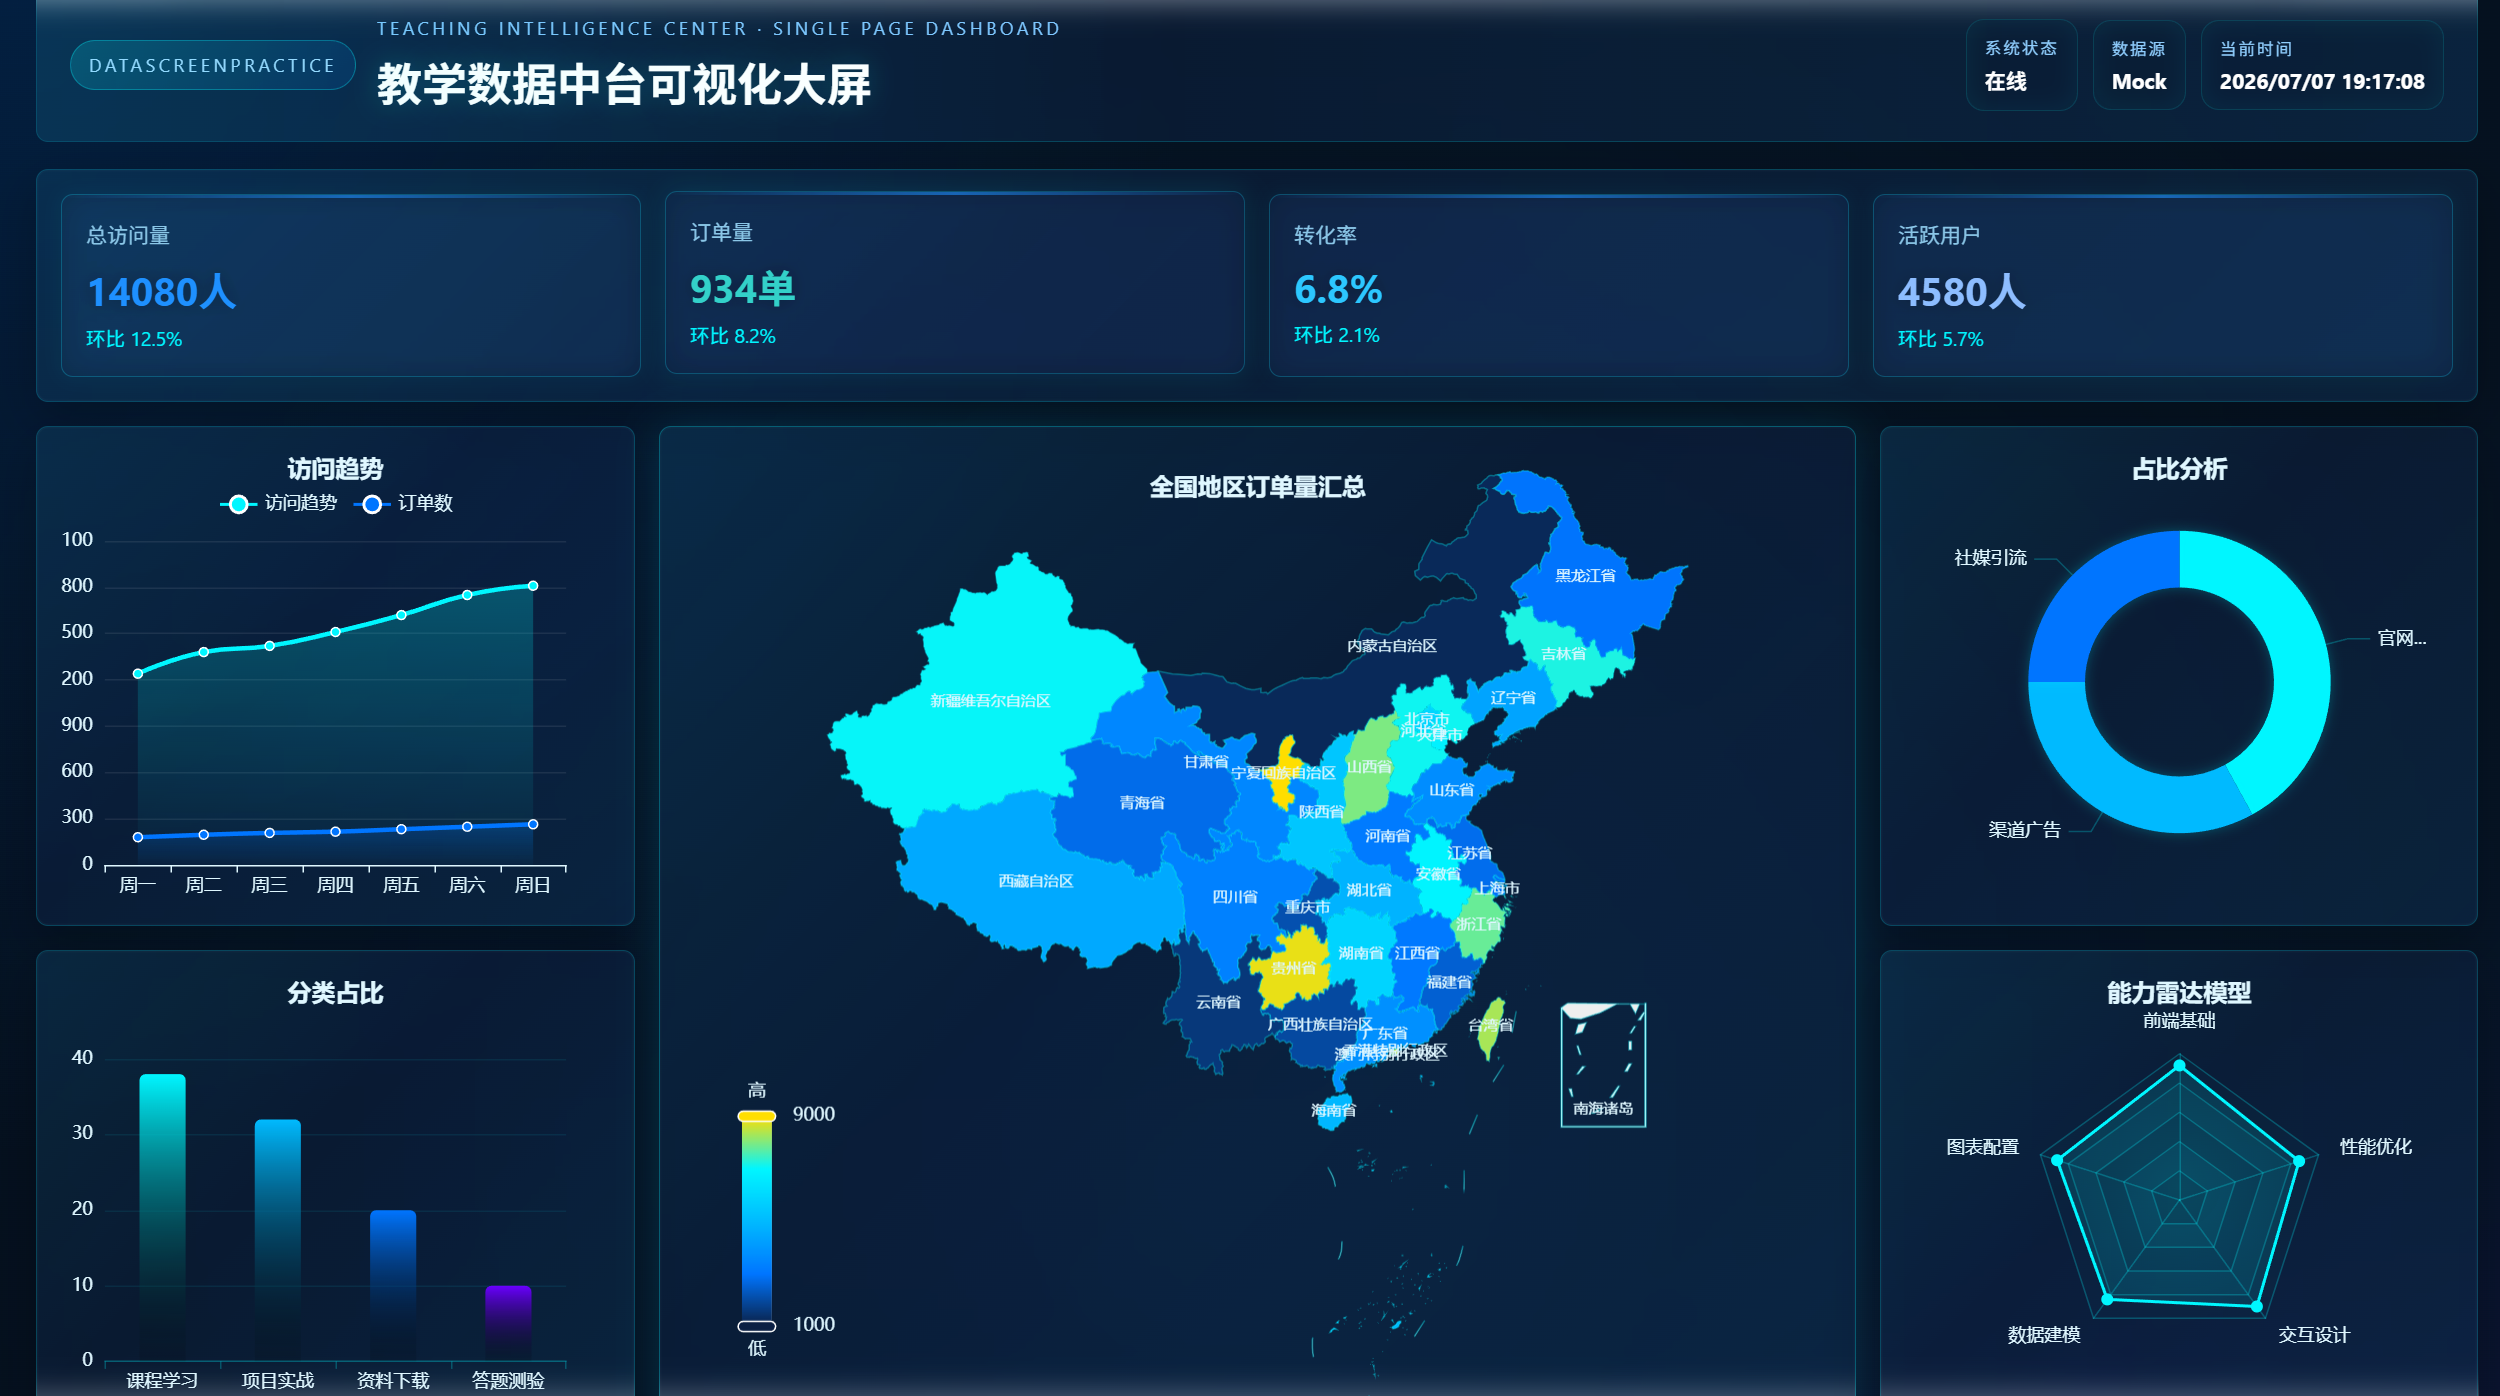
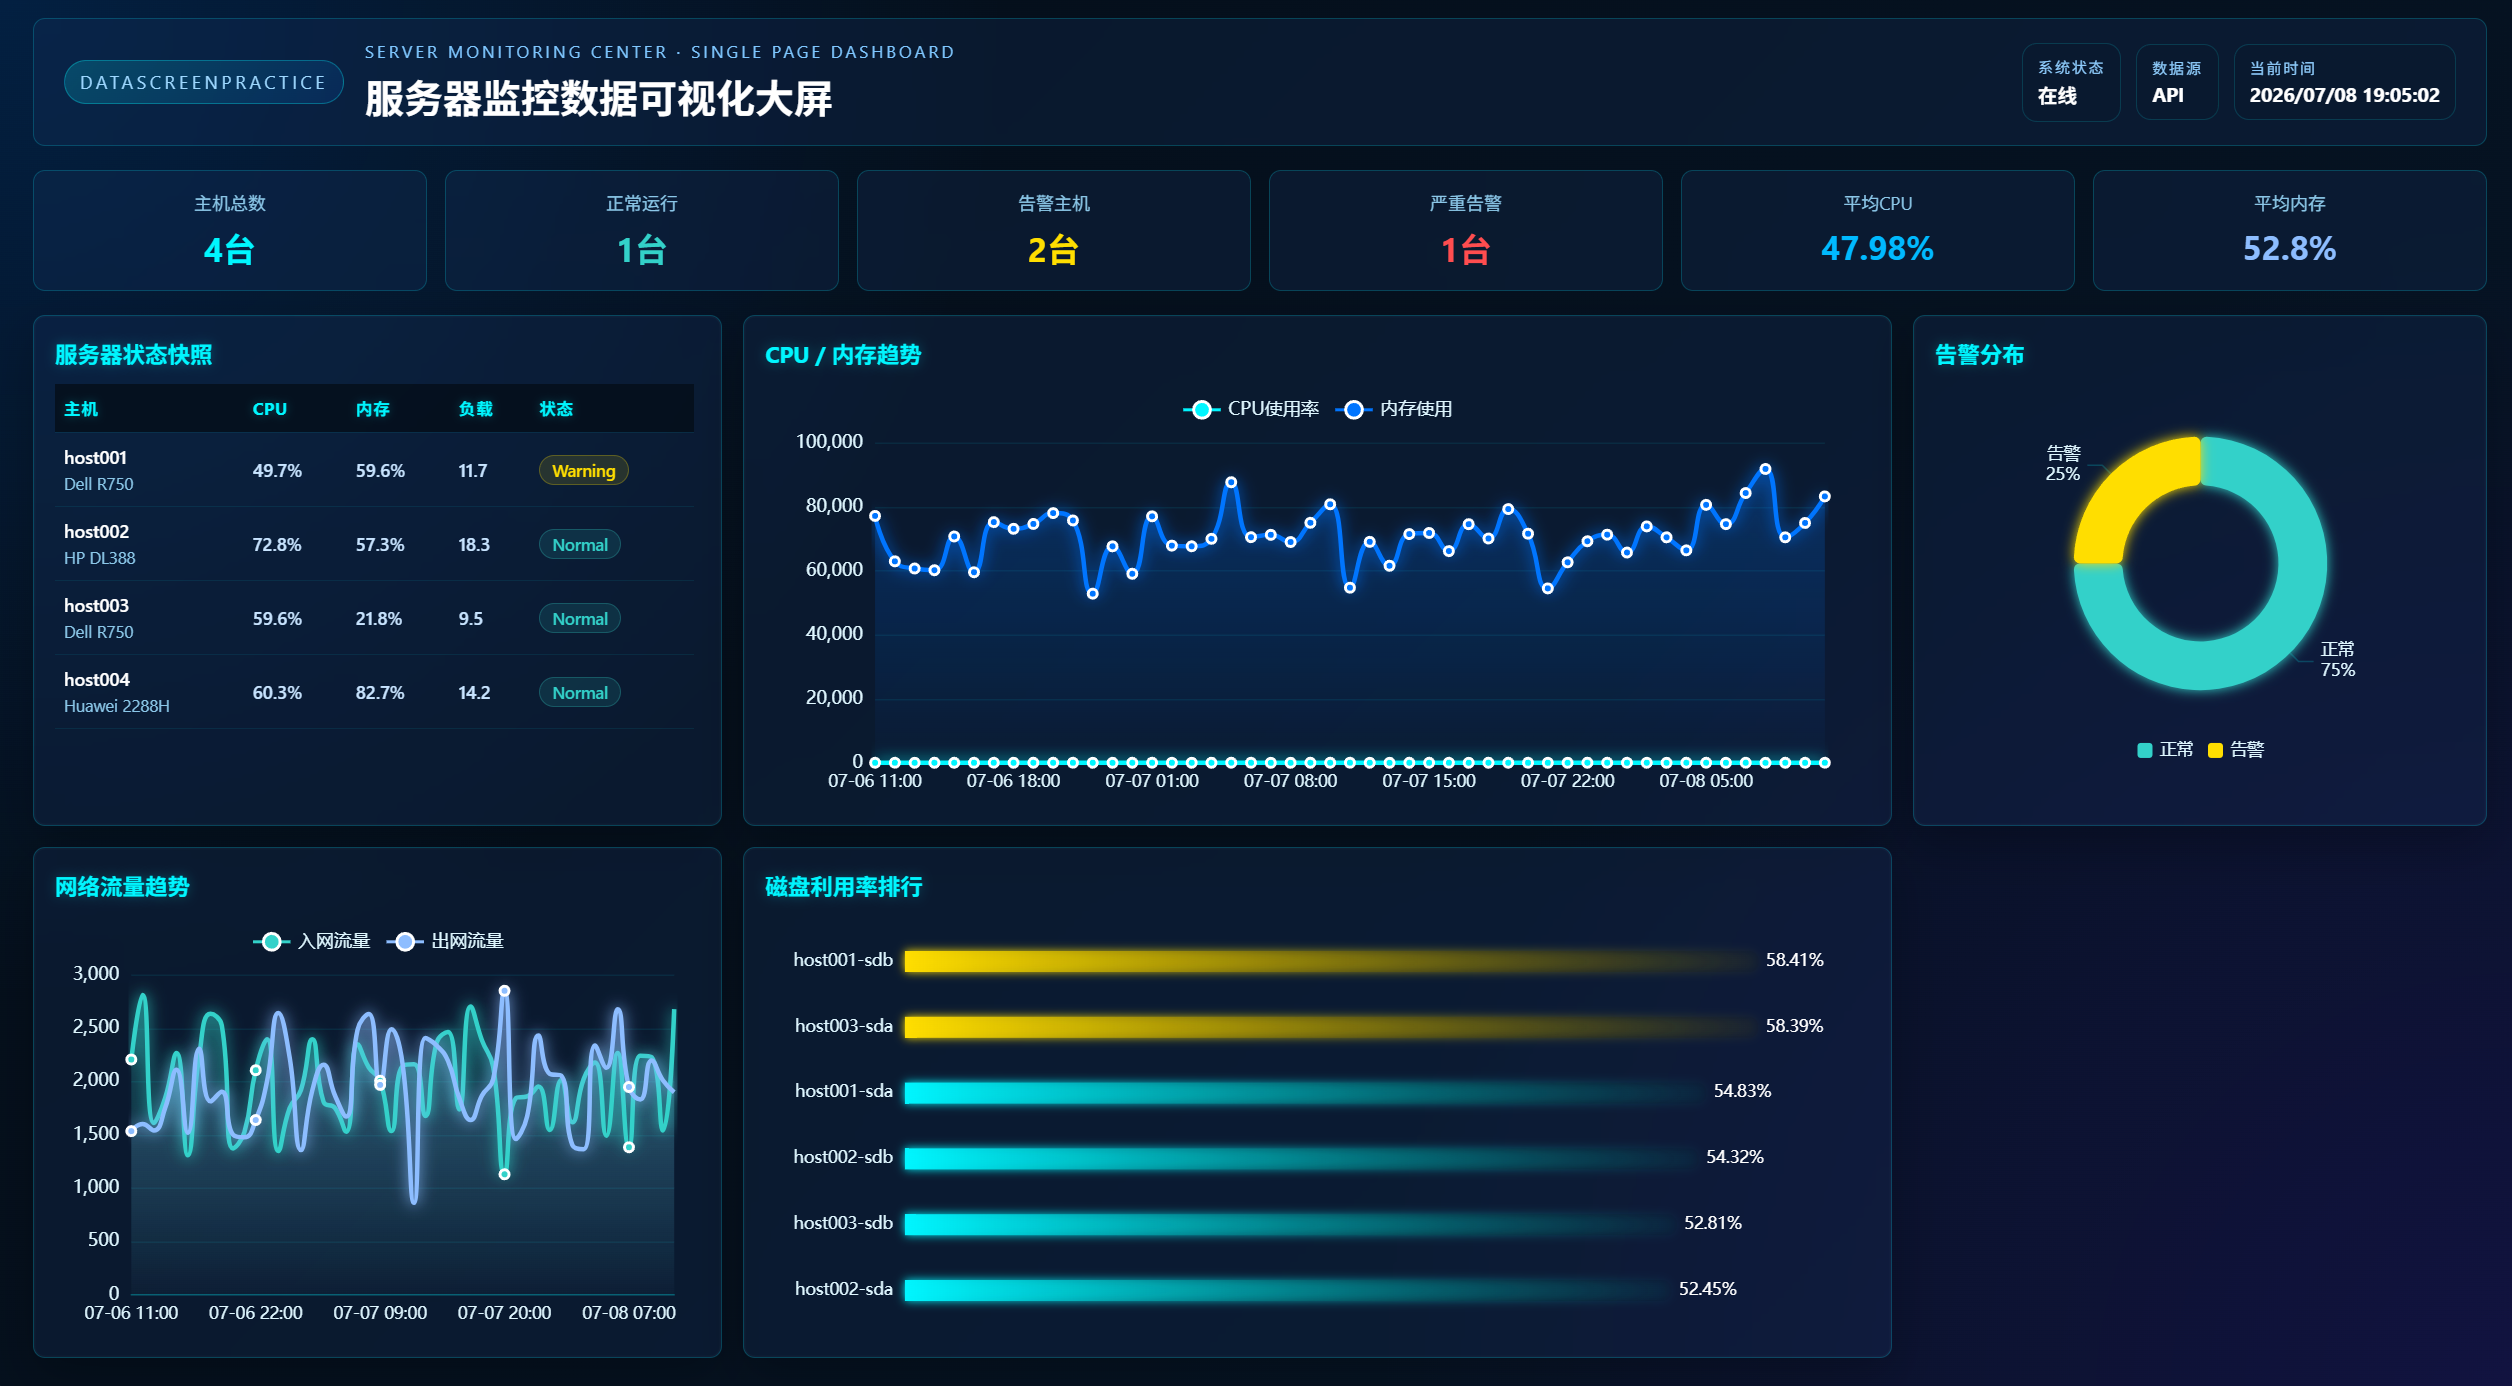
commit6 重写了readme文件

diff --git a/screen-main/README.md b/screen-main/README.md
@@ -1,91 +1,203 @@
 # DataScreenPractice
 
-Vue 3 数据大屏项目，基于 TypeScript + Vite 构建，用于展示数据可视化大屏。
+服务器监控数据可视化大屏，前后端分离架构，提供实时服务器状态、性能趋势、网络流量、磁盘利用率及告警分布等可视化能力。
+
+![alt text](project/image-1.png)
+## 系统架构
+
+```
+screen-main/
+├── project/          # 前端：Vue 3 + TypeScript + Vite
+│   ├── src/
+│   │   ├── api/          # API 定义
+│   │   ├── components/   # 公共组件
+│   │   ├── config/       # 全局配置
+│   │   ├── mock/         # 模拟数据
+│   │   ├── modules/      # 业务模块
+│   │   ├── router/       # 路由
+│   │   ├── services/     # 数据服务层
+│   │   ├── stores/       # Pinia 状态管理
+│   │   ├── types/        # TS 类型定义
+│   │   └── views/        # 页面视图
+│   └── package.json
+│
+├── backend/           # 后端：Express.js + TypeScript
+│   ├── src/
+│   │   ├── controllers/  # 控制器
+│   │   ├── services/     # 业务逻辑
+│   │   ├── routes/       # 路由
+│   │   ├── config/       # 配置
+│   │   └── app.ts        # 入口
+│   ├── scripts/
+│   │   └── EtlScript.py  # ETL 数据加工脚本
+│   └── package.json
+│
+└── database/
+    └── DdlScript.sql     # MySQL 建表脚本
+```
 
 ## 技术栈
 
-- Vue 3.5
-- TypeScript 5.6
-- Vite 5.4
-- ECharts 5
-- Pinia 2.3
-- Vue Router 4.4
-- Sass
+### 前端
 
-## 项目结构
+- Vue 3.5 + TypeScript 5.6 + Vite 5.4
+- ECharts 5 / Pinia 2.3 / Vue Router 4.4
+- Sass / Axios 1.7
+- ESLint + Prettier + Husky
+- Vitest（单元测试）
+
+### 后端
+
+- Express.js 4.x + TypeScript 5.6
+- mysql2（纯 promise 模式，无连接池）
+- dotenv / cors
+- ts-node-dev（开发热更新）
+
+### 数据层
+
+- MySQL（InnoDB / utf8mb4）
+- 4 张结果表：主机性能小时聚合、磁盘性能小时聚合、网络流量小时聚合、服务器实时状态快照
+- ETL 由 Python（pandas + pymysql）独立脚本执行
+
+## 数据流
 
 ```
-src/
-├── api/          # 接口定义
-├── assets/       # 静态资源
-├── components/   # 公共组件
-│   ├── decorations/
-│   ├── TrendChart.vue
-│   ├── RealtimeLineChart.vue
-│   ├── ProportionPieChart.vue
-│   ├── DataTable.vue
-│   ├── DataOverview.vue
-│   └── ...
-├── config/       # 全局配置
-├── constants/    # 常量定义
-├── layouts/      # 布局组件
-├── mock/         # Mock 数据
-├── modules/      # 业务模块
-│   ├── DataModule/
-│   ├── LogModule/
-│   ├── QualityModule/
-│   └── TestModule/
-├── router/       # 路由配置
-├── services/     # 数据服务层
-├── stores/       # Pinia 状态管理
-├── styles/       # 全局样式
-├── types/        # TypeScript 类型定义
-├── utils/        # 工具函数
-├── views/        # 页面视图
-├── App.vue
-└── main.ts
+外部监控系统（PrefTsar / DiskTsar / HostDetail）
+        │
+        ▼  .dat 原始文件（.uploads/）
+ETL 脚本（EtlScript.py）
+        │
+        ▼  TRUNCATE + REPLACE INTO
+MySQL · DataScreenDB（4 张结果表）
+        │
+        ▼  SELECT（mysql2）
+Express API 服务（/api/v1）
+        │
+        ▼  HTTP GET（JSON）
+Vue 前端（Axios → Repository → Pinia → 可视化组件）
 ```
-![图片](project/image-1.png)
 
+### API 端点
+
+| 方法 | 路径 | 说明 |
+|---|---|---|
+| GET | /api/v1/status-snapshot | 服务器实时状态快照 |
+| GET | /api/v1/performance-hourly | 主机性能指标小时聚合 |
+| GET | /api/v1/disk-hourly | 磁盘性能指标小时聚合 |
+| GET | /api/v1/network-hourly | 网络流量小时聚合 |
+| GET | /health | 健康检查 |
+
+前端通过 `VITE_DATA_SOURCE` 环境变量切换数据源：`mock`（前端模拟数据）或 `api`（真实后端接口）。
+
+## 前置要求
+
+- Node.js >= 18
+- MySQL >= 8.0
+- Python 3（ETL 用）
 
 ## 快速开始
 
-```bash
-# 安装依赖
-npm install
+### 1. 克隆与依赖
 
-# 启动开发服务器
+```bash
+cd screen-main
+
+# 前端依赖
+cd project && npm install
+
+# 后端依赖
+cd ../backend && npm install
+```
+
+### 2. 初始化数据库
+
+在 MySQL 中执行建表脚本：
+
+```bash
+mysql -u root -p < screen-main/backend/database/DdlScript.sql
+```
+
+或手动导入。
+
+### 3. 配置后端环境变量
+
+复制 `screen-main/backend/.env`（已存在默认值），按需修改：
+
+| 变量 | 默认值 | 说明 |
+|---|---|---|
+| PORT | 3000 | 后端服务端口 |
+| DB_HOST | localhost | MySQL 地址 |
+| DB_PORT | 3306 | MySQL 端口 |
+| DB_USER | root | 用户名 |
+| DB_PASS | password | 密码 |
+| DB_NAME | DataScreenDB | 数据库名 |
+| MOCK_MODE | false | true 时返回模拟数据，不查库 |
+
+### 4. 启动后端
+
+```bash
+cd screen-main/backend
+
+# 开发模式（热更新）
 npm run dev
 
-# 构建生产版本
-npm run build
-
-# 预览构建结果
-npm run preview
+# 生产模式
+npm run build && npm run start
 ```
+
+### 5. 导入数据（ETL）
+
+将监控系统产出的 4 个 `.dat` 文件放入 `.uploads/` 目录，然后执行：
+
+```bash
+cd screen-main/backend
+npm run etl
+```
+
+每次执行会 **清空并重建** 4 张结果表的所有数据。
+
+### 6. 启动前端
+
+```bash
+cd screen-main/project
+
+# 默认使用 mock 数据（无需后端）
+npm run dev
+
+# 修改 .env 为 VITE_DATA_SOURCE=api 以连接真实后端
+npm run dev
+```
+
+前端默认运行在 `http://localhost:5173`。
 
 ## 其他命令
 
 ```bash
 # 代码检查
-npm run lint
+cd screen-main/project && npm run lint
+cd screen-main/backend && npm run lint   # 如有配置
 
 # 格式化代码
-npm run format
+cd screen-main/project && npm run format
 
 # 类型检查
-npm run typecheck
+cd screen-main/project && npm run typecheck
+
+# 构建生产版本
+cd screen-main/project && npm run build
 
 # 运行测试
-npm run test
+cd screen-main/project && npm run test
 
 # 测试覆盖率
-npm run test:coverage
+cd screen-main/project && npm run test:coverage
 ```
 
-## 开发约定
+## 项目约定
 
 - 代码风格：ESLint + Prettier
 - 提交规范：Conventional Commits（commitlint）
-- 模块按业务领域拆分在 `src/modules/` 下
-- 数据请求统一通过 `src/services/` 层
+- 数据库命名：表名与字段名使用**大驼峰**（PascalCase）
+- 前端默认数据源为 `mock`，连接真实后端需设置 `VITE_DATA_SOURCE=api`
+- 后端无连接池，每次请求新建连接并在 `finally` 中关闭
+- ETL 为全量刷新（`TRUNCATE + REPLACE`），非增量写入